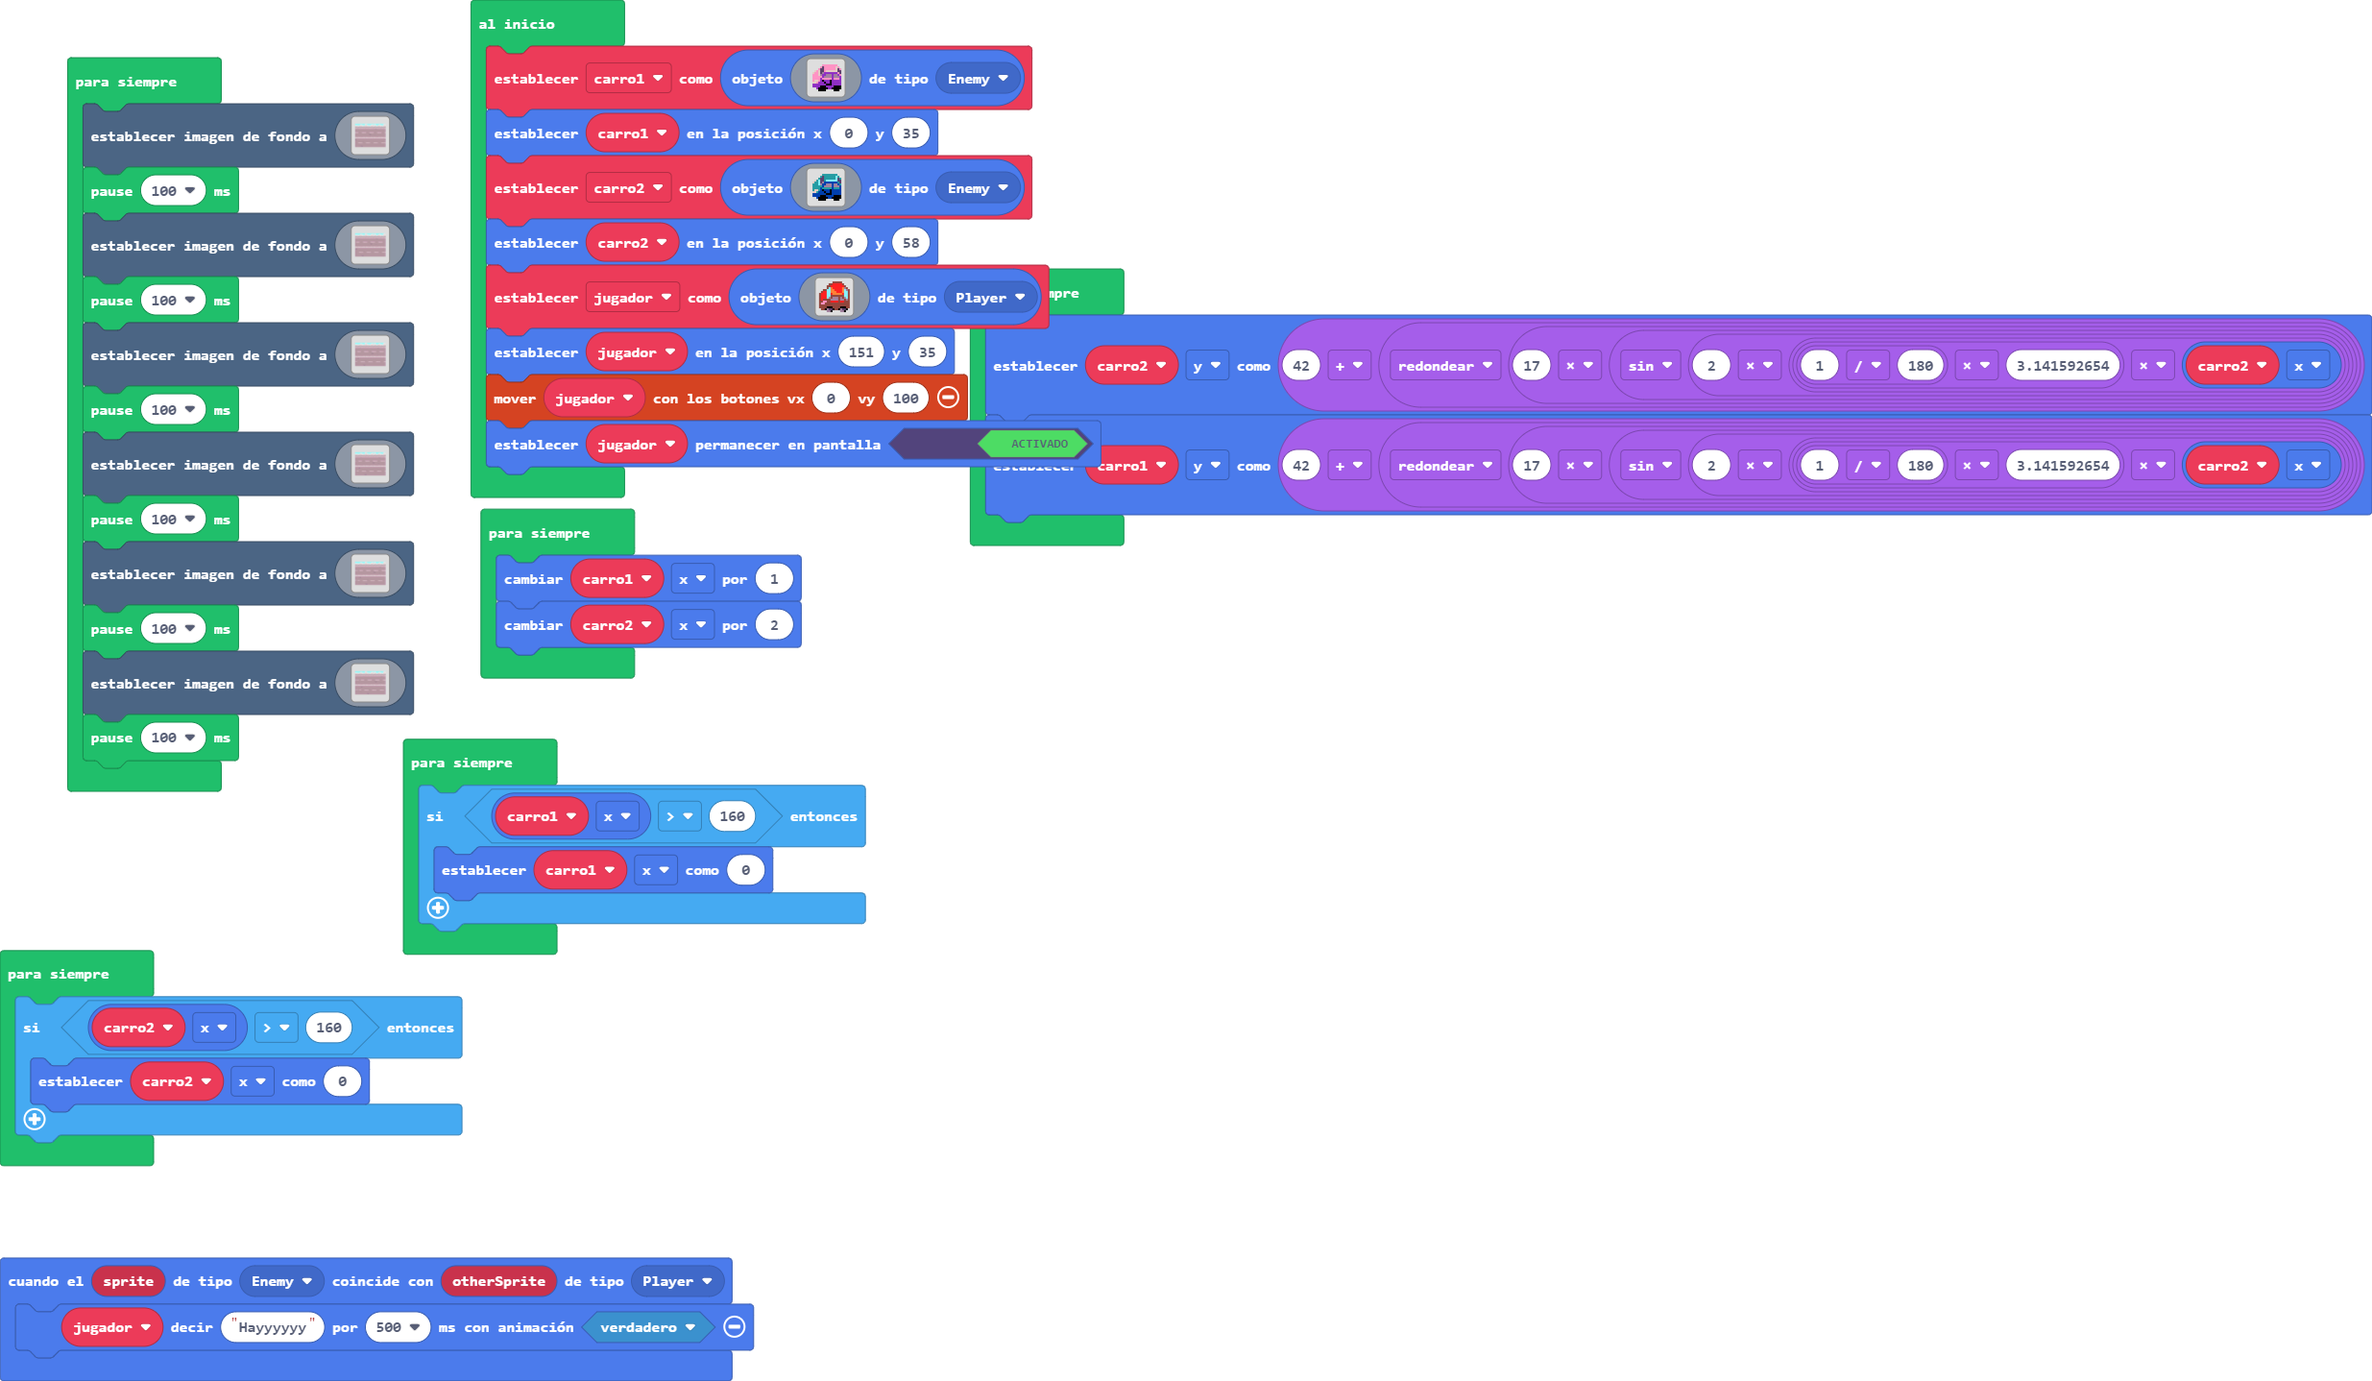
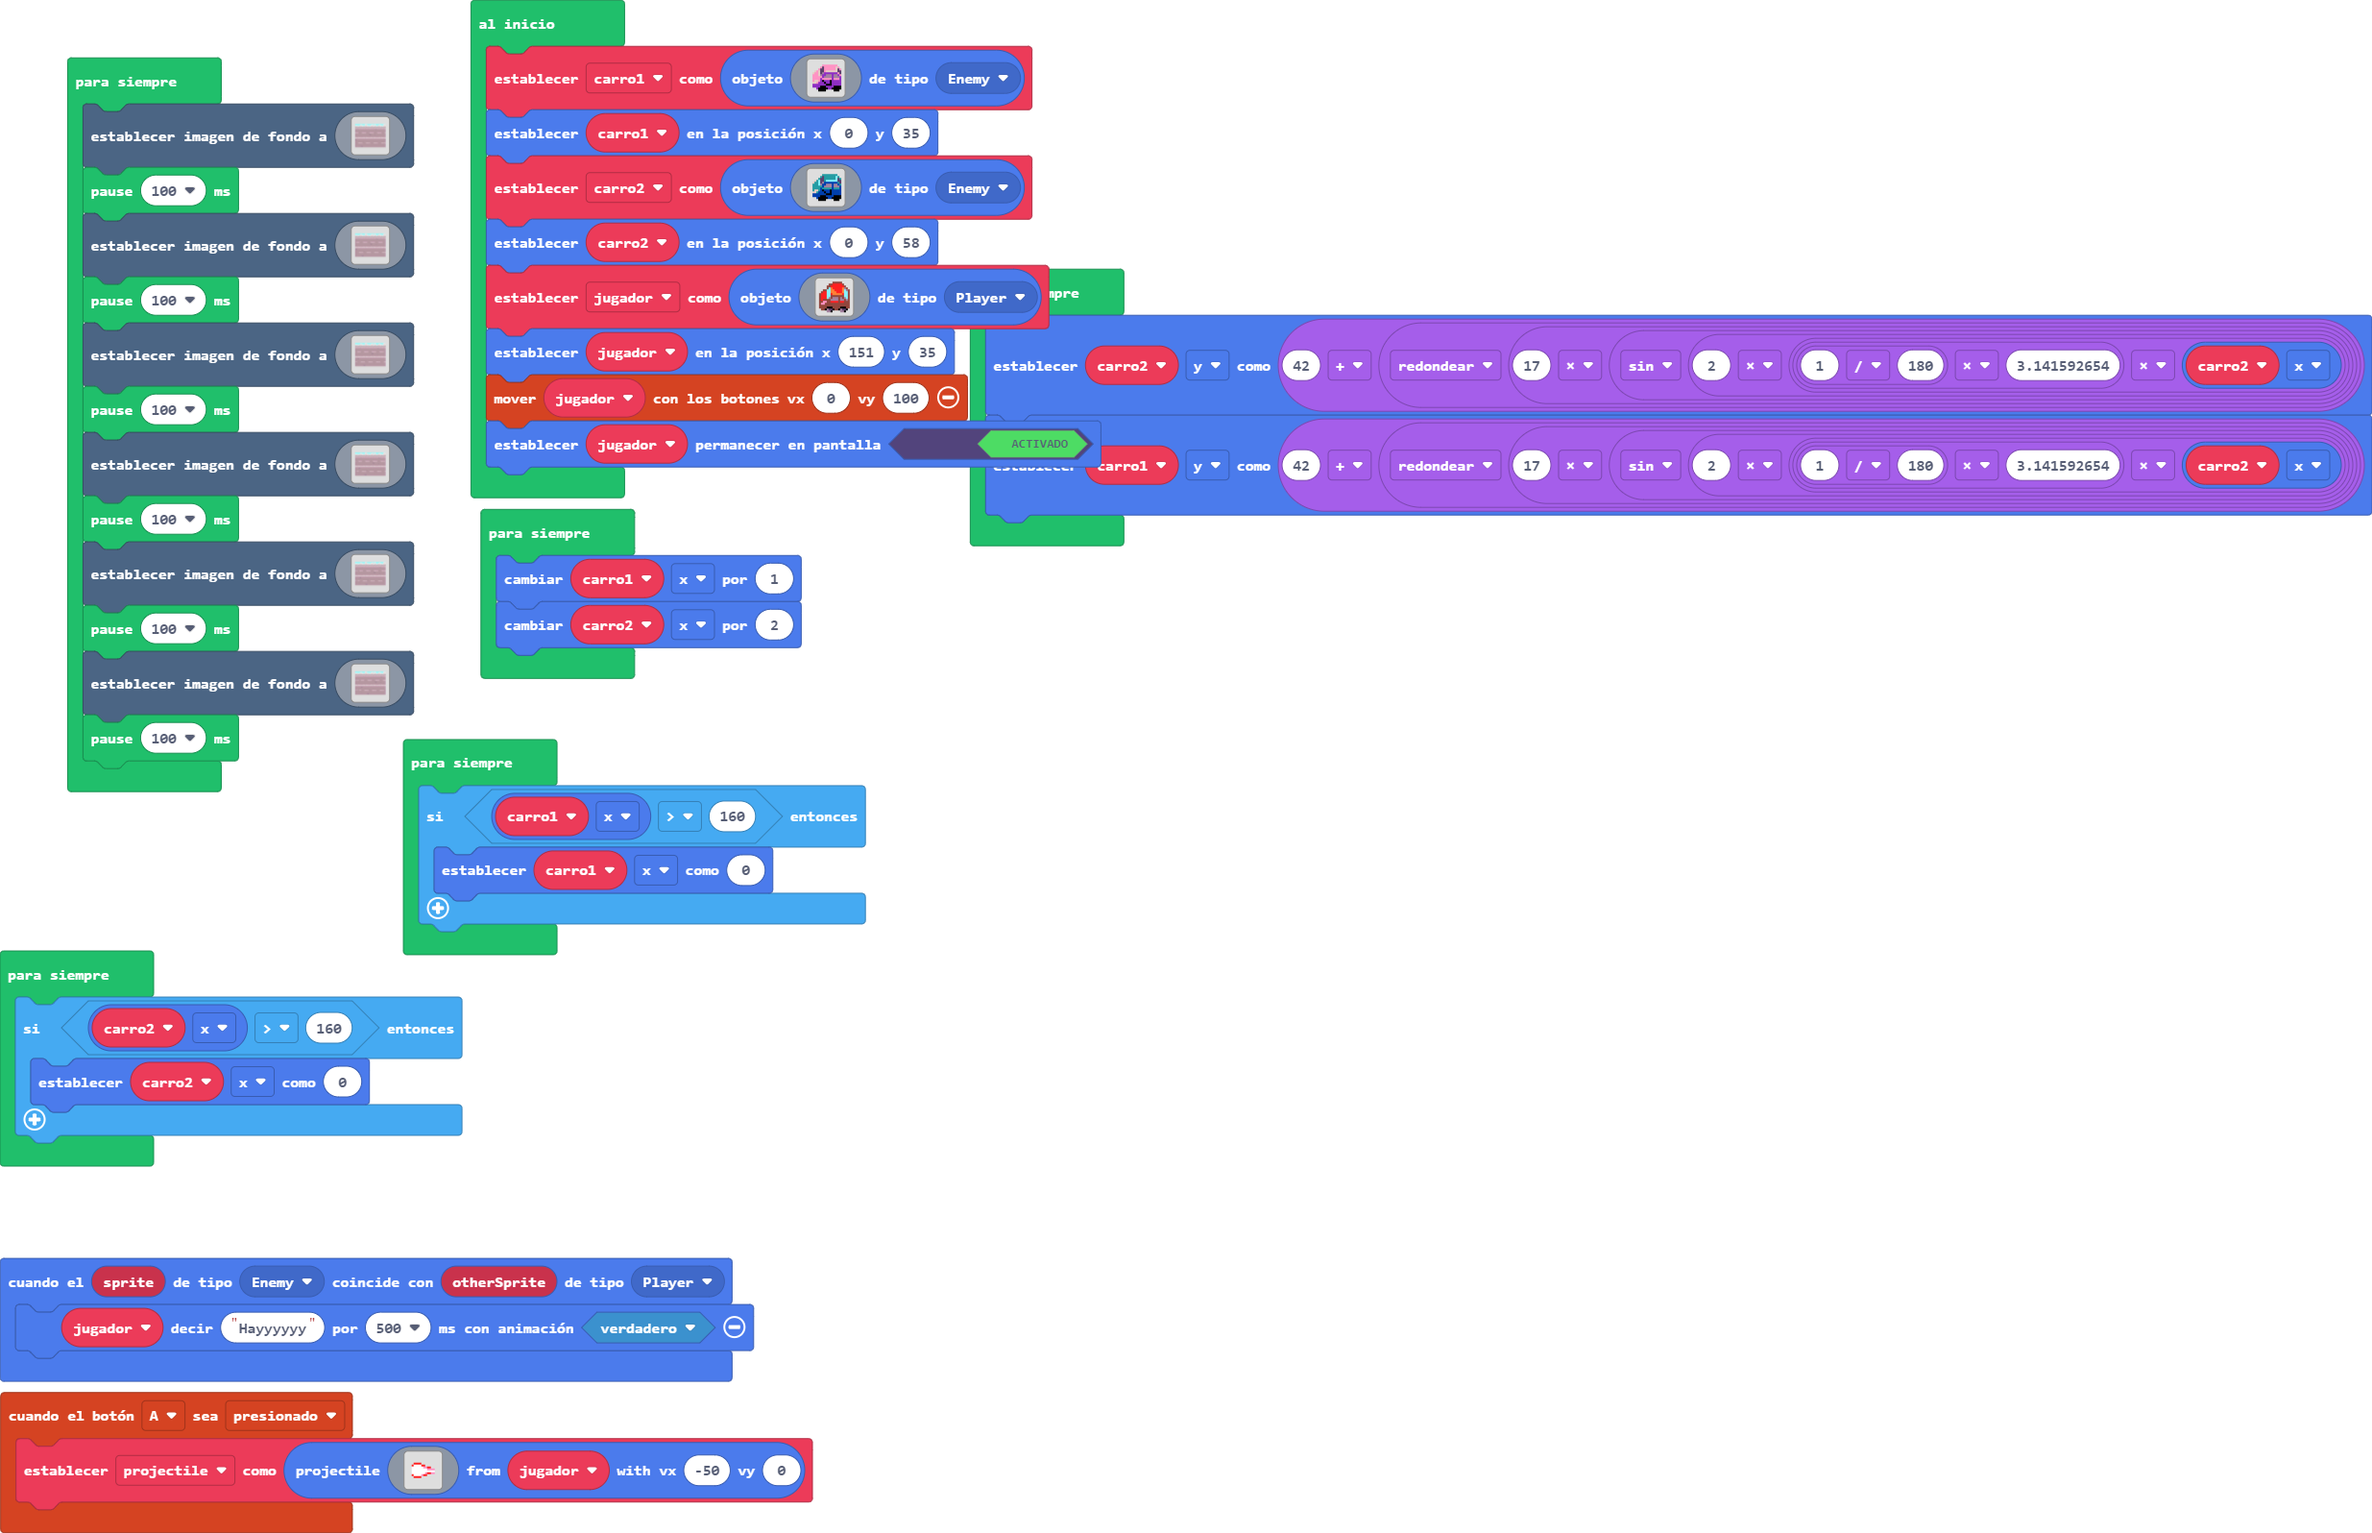
disparar

Changed region(s): [[0.0, 0.0, 1.0, 1.0]]

diff --git a/main.ts b/main.ts
@@ -1,6 +1,27 @@
+controller.A.onEvent(ControllerButtonEvent.Pressed, function () {
+    projectile = sprites.createProjectileFromSprite(img`
+        . . . . . . . . . . . . . . . . 
+        . . . . . . . . . . . . . . . . 
+        . . . . . . . . . . . . . . . . 
+        . . . . . . . . . . . . . . . . 
+        . . . 2 2 2 2 . . . . . . . . . 
+        . . 2 1 1 1 1 2 2 . . . . . . . 
+        . . 1 1 1 1 1 1 3 3 2 2 . . . . 
+        . . 1 1 1 1 1 1 1 1 3 3 3 3 . . 
+        . . 1 1 1 1 1 1 1 1 1 1 1 1 . . 
+        . . 1 1 1 1 1 1 1 3 2 2 3 3 . . 
+        . . 2 1 1 1 1 3 2 2 . . . . . . 
+        . . . 2 2 2 2 . . . . . . . . . 
+        . . . . . . . . . . . . . . . . 
+        . . . . . . . . . . . . . . . . 
+        . . . . . . . . . . . . . . . . 
+        . . . . . . . . . . . . . . . . 
+        `, jugador, -50, 0)
+})
 sprites.onOverlap(SpriteKind.Enemy, SpriteKind.Player, function (sprite, otherSprite) {
     jugador.sayText("Hayyyyyy", 500, true)
 })
+let projectile: Sprite = null
 let jugador: Sprite = null
 let carro1 = sprites.create(img`
     . . . . . . . . . . . . . . . . 
